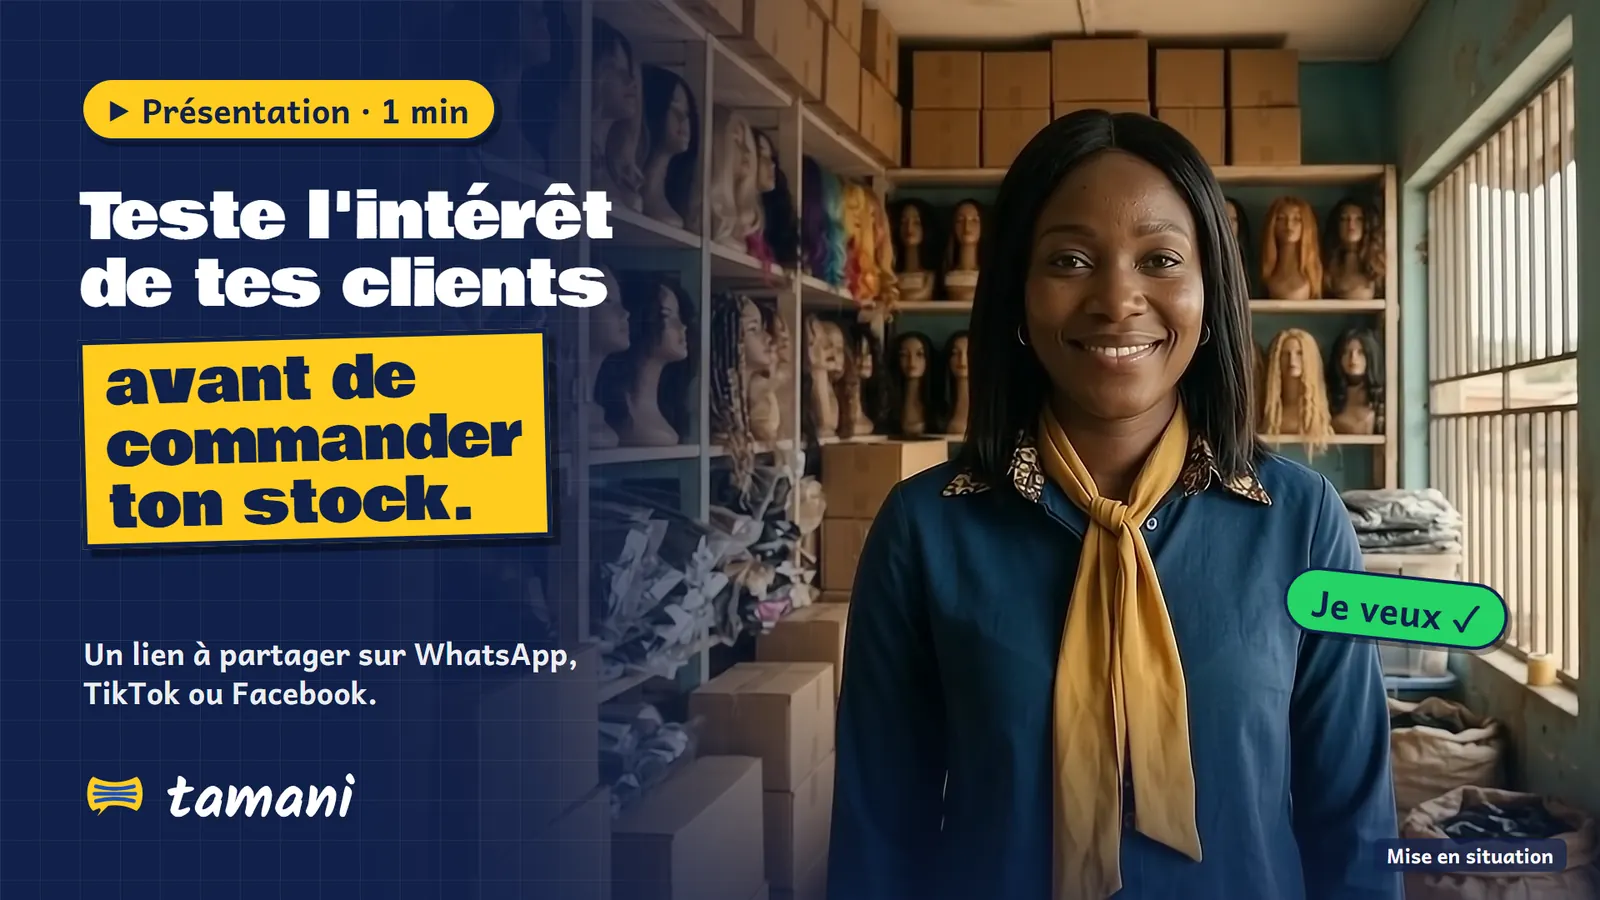
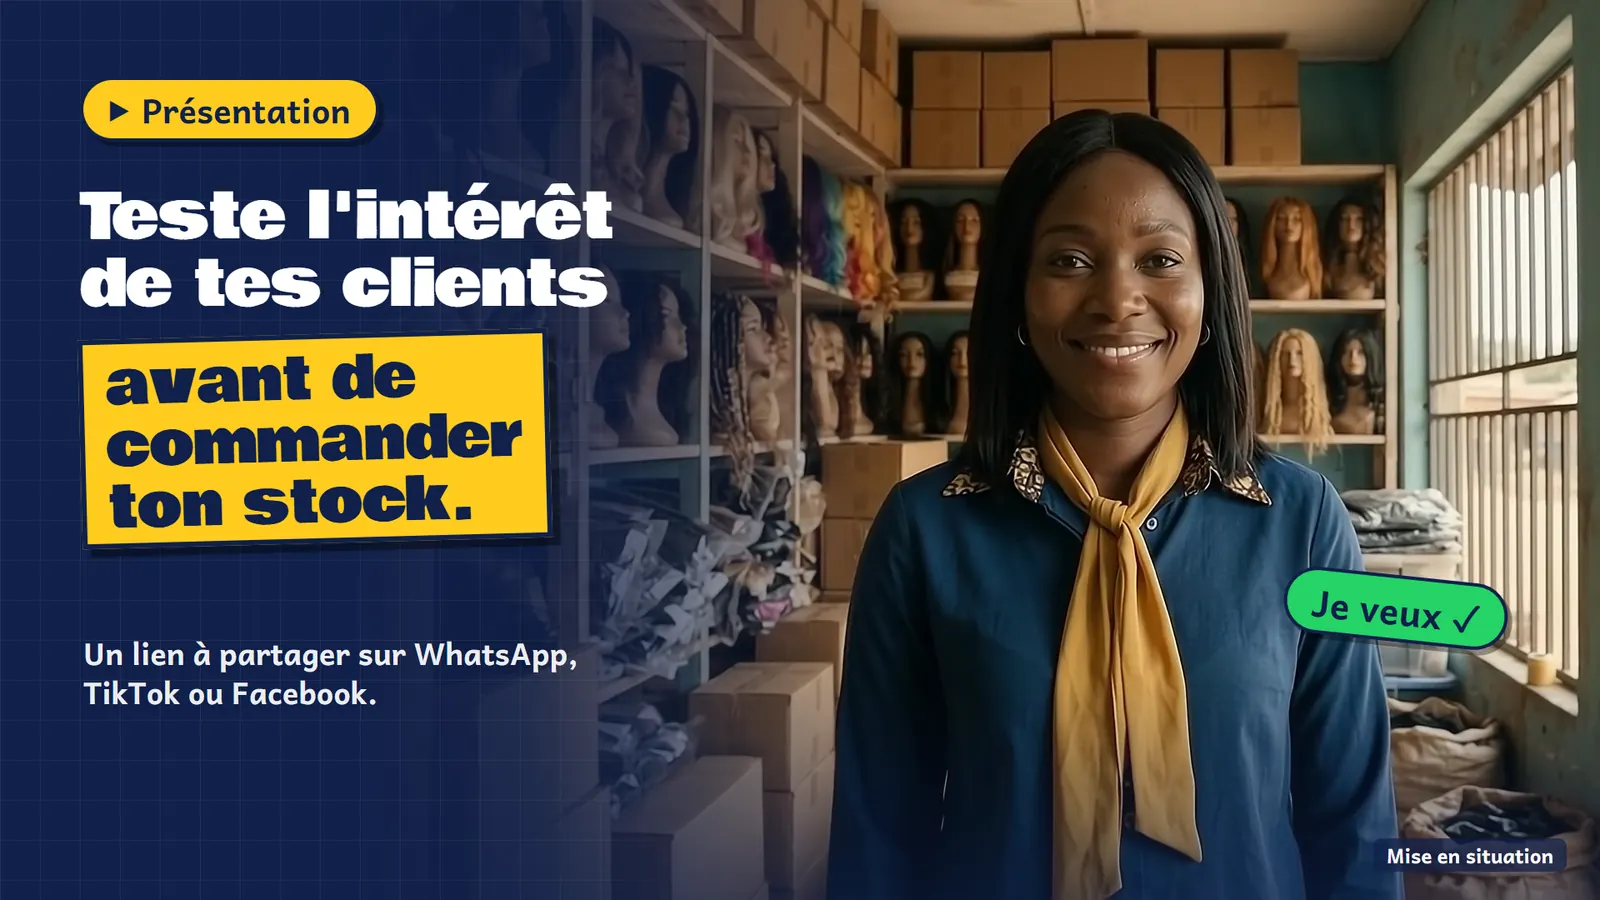
fix(landing): the menu bar fits the brief's entries; the poster leaves the player's corner free
Recette at 1120, 1280 and 1440 px:
- the six longer entries, « Se connecter » and the button need the bar's
  full 1180 px: the entries sit in the bar from 1280 px (drawer below), and
  the bar's button reads the short LANDING_NAV_CTA_LABEL on one line;
- the hero title lines are balanced, so « clients » is never alone;
- the site poster drops its logo and duration: the player writes « 1 min »
  in that corner, over the logo on a phone.

Changed region(s): [[0.2188, 0.0622, 0.3125, 0.1556], [0.0312, 0.84, 0.2188, 0.9333]]

diff --git a/frontend/src/components/landing/landing.test.tsx b/frontend/src/components/landing/landing.test.tsx
@@ -9,6 +9,8 @@ import {
   LANDING_LINKS,
   LANDING_NAV,
   LANDING_VIDEO,
+  LANDING_NAV_CTA_LABEL,
+  LANDING_SIGNUP_LABEL,
   filmLength,
   type LandingLinks,
 } from '@/lib/tamani/landing';
@@ -156,7 +158,12 @@ describe('LandingNav', () => {
     expect(out).toMatch(
       /<a [^>]*class="[^"]*lp-nav__cta[^"]*"[^>]*href="\/liste-attente"|<a [^>]*href="\/liste-attente"[^>]*class="[^"]*lp-nav__cta/,
     );
+    // The bar's button carries the short label on one line; the drawer's, the full one.
+    const barCta = out.match(/<a [^>]*class="[^"]*lp-nav__cta[^"]*"[^>]*>[\s\S]*?<\/a>/)?.[0] ?? '';
+    expect(barCta).toContain(`>${LANDING_NAV_CTA_LABEL.replace("'", '&#x27;')}<`);
+    expect(barCta).toContain('whitespace-nowrap');
     const drawer = out.slice(out.indexOf('id="lp-menu"'));
+    expect(drawer).toContain(LANDING_SIGNUP_LABEL.replace("'", '&#x27;'));
     const hrefs = [...drawer.matchAll(/href="([^"]+)"/g)].map((m) => m[1]);
     expect(hrefs).toEqual([
       ...LANDING_NAV.map((n) => n.href),
@@ -566,22 +573,23 @@ describe('motion that invites, never in the way', () => {
   });
 
   // Recette 2026-11-05: six entries centred in the bar ran into « Se connecter » at 1280 px.
+  // Recette 2026-11-06: the brief's longer entries and button need the full 1180 px bar.
   it('the bar shows its six entries only where they fit, never centred over the sign-in', () => {
     expect(css).not.toMatch(/\.lp-nav__links\s*\{[^}]*left:\s*50%/);
     expect(css).toMatch(
-      /@media \(min-width: 1120px\)\s*\{\s*\.lp-nav__links\s*\{\s*display:\s*flex[\s\S]*?\.lp-nav__menu\s*\{\s*display:\s*none/,
+      /@media \(min-width: 1280px\)\s*\{\s*\.lp-nav__links\s*\{\s*display:\s*flex[\s\S]*?\.lp-nav__menu\s*\{\s*display:\s*none/,
     );
   });
 
-  it('the drawer exists wherever the menu button shows (below 1120 px)', () => {
+  it('the drawer exists wherever the menu button shows (below 1280 px)', () => {
     // Hidden from 1000 px while the button stayed until 1119 px, a tap showed
     // nothing and locked the page's scroll.
     expect(css).not.toMatch(
       /@media \(min-width: 1000px\)\s*\{\s*\.lp-drawer\s*\{\s*display:\s*none/,
     );
-    expect(css).toMatch(/@media \(min-width: 1120px\)\s*\{\s*\.lp-drawer\s*\{\s*display:\s*none/);
+    expect(css).toMatch(/@media \(min-width: 1280px\)\s*\{\s*\.lp-drawer\s*\{\s*display:\s*none/);
     const nav = readFileSync(path.join(__dirname, 'LandingNav.tsx'), 'utf8');
-    expect(nav).toContain("matchMedia('(min-width: 1120px)')");
+    expect(nav).toContain("matchMedia('(min-width: 1280px)')");
     expect(nav).not.toContain("matchMedia('(min-width: 1000px)')");
   });
 

diff --git a/frontend/src/components/landing/LandingNav.tsx b/frontend/src/components/landing/LandingNav.tsx
@@ -10,6 +10,7 @@ import {
   LANDING_NAV,
   navStep,
   type LandingLinks,
+  LANDING_NAV_CTA_LABEL,
   LANDING_SIGNUP_HREF,
   LANDING_SIGNUP_LABEL,
 } from '@/lib/tamani/landing';
@@ -151,7 +152,7 @@ export function LandingNav({
   }, []);
 
   // While the drawer is open: focus inside it, Tab kept in it, Escape closes,
-  // the page under it does not scroll, and a window grown past 1120px (where
+  // the page under it does not scroll, and a window grown past 1280px (where
   // the bar shows every link) closes it.
   useEffect(() => {
     if (!open) return;
@@ -178,7 +179,7 @@ export function LandingNav({
         first.focus();
       }
     };
-    const wide = window.matchMedia('(min-width: 1120px)');
+    const wide = window.matchMedia('(min-width: 1280px)');
     const onWide = () => {
       if (wide.matches) setOpen(false);
     };
@@ -222,9 +223,9 @@ export function LandingNav({
             </Link>
             <Button
               href={LANDING_SIGNUP_HREF}
-              className="lp-nav__cta min-h-11 rounded-[12px] bg-ink px-[18px] text-[15px]"
+              className="lp-nav__cta min-h-11 rounded-[12px] bg-ink px-[18px] text-[15px] whitespace-nowrap"
             >
-              {LANDING_SIGNUP_LABEL}
+              {LANDING_NAV_CTA_LABEL}
             </Button>
             <button
               ref={menuRef}

diff --git a/frontend/src/lib/tamani/landing.ts b/frontend/src/lib/tamani/landing.ts
@@ -64,6 +64,7 @@ const LAUNCH: Record<
   {
     href: string;
     label: string;
+    navLabel: string;
     finalLabel: string;
     finalNote: string;
     planLabel: string;
@@ -73,6 +74,7 @@ const LAUNCH: Record<
   waitlist: {
     href: WAITLIST_PATH,
     label: "Rejoindre la liste d'attente",
+    navLabel: "Liste d'attente",
     finalLabel: "Rejoindre gratuitement la liste d'attente",
     finalNote: "Sans engagement. Nous te prévenons à l'ouverture.",
     planLabel: "Être prévenu à l'ouverture",
@@ -81,6 +83,7 @@ const LAUNCH: Record<
   open: {
     href: '/signup',
     label: 'Créer mon compte gratuit',
+    navLabel: 'Créer mon compte',
     finalLabel: 'Créer mon compte gratuit',
     finalNote: 'Sans carte bancaire.',
     planLabel: 'Choisir ce pass',
@@ -92,6 +95,8 @@ const launch = LAUNCH[LANDING_LAUNCH_MODE];
 /** Where every sign-up button of the public site leads, and what it says. */
 export const LANDING_SIGNUP_HREF: string = launch.href;
 export const LANDING_SIGNUP_LABEL: string = launch.label;
+/** The menu bar's button: short, on one line, beside the six entries and « Se connecter ». */
+export const LANDING_NAV_CTA_LABEL: string = launch.navLabel;
 /** The last call's button, a little longer. */
 export const LANDING_FINAL_LABEL: string = launch.finalLabel;
 /** The line under it. */

diff --git a/frontend/src/components/landing/landing.css b/frontend/src/components/landing/landing.css
@@ -347,10 +347,11 @@ html:has(.lp) {
     display: inline-flex;
   }
 }
-/* The six entries of the menu (lot 12) fit in the bar from 1120 px, pushed
+/* The six entries of the menu (lot 12) fit in the bar from 1280 px (the bar's
+   full 1180 px, since the copy brief's longer entries, 2026-11-06), pushed
    right next to the sign-in; below, they stay in the drawer. Centring them
    (lot 9a, four entries) made them run into « Se connecter ». */
-@media (min-width: 1120px) {
+@media (min-width: 1280px) {
   .lp-nav__links {
     display: flex;
     gap: 0;
@@ -581,8 +582,8 @@ button.lp-drawer__install {
   text-decoration-thickness: 2px;
   text-underline-offset: 3px;
 }
-/* The drawer lives as long as its menu button does (below 1120 px). */
-@media (min-width: 1120px) {
+/* The drawer lives as long as its menu button does (below 1280 px). */
+@media (min-width: 1280px) {
   .lp-drawer {
     display: none;
   }
@@ -622,6 +623,8 @@ button.lp-drawer__install {
 }
 .lp-hero__title > span {
   display: block;
+  /* « Teste l'intérêt / de tes clients »: never one word alone on a line. */
+  text-wrap: balance;
 }
 .lp-hero__l2 {
   position: relative;

diff --git a/frontend/src/lib/tamani/landing.test.ts b/frontend/src/lib/tamani/landing.test.ts
@@ -10,6 +10,7 @@ import {
   LANDING_REASSURANCE,
   LANDING_SIGNUP_HREF,
   LANDING_SIGNUP_LABEL,
+  LANDING_NAV_CTA_LABEL,
   LANDING_TITLE,
   clampPercent,
   countFrame,
@@ -302,6 +303,7 @@ describe('the launch mode (copy brief §2.3, §4.2)', () => {
     expect(LANDING_LAUNCH_MODE).toBe('waitlist');
     expect(LANDING_SIGNUP_HREF).toBe('/liste-attente');
     expect(LANDING_SIGNUP_LABEL).toBe("Rejoindre la liste d'attente");
+    expect(LANDING_NAV_CTA_LABEL).toBe("Liste d'attente");
     expect(LANDING_FINAL_LABEL).toBe("Rejoindre gratuitement la liste d'attente");
     expect(LANDING_PLAN_LABEL).toBe("Être prévenu à l'ouverture");
     expect(LANDING_REASSURANCE).toBe(

diff --git a/frontend/src/app/(public)/page.test.tsx b/frontend/src/app/(public)/page.test.tsx
@@ -62,7 +62,7 @@ describe('/ (the home page)', () => {
     expect(ctas.length).toBeGreaterThanOrEqual(6);
     for (const a of ctas)
       expect(text(<div dangerouslySetInnerHTML={{ __html: a }} />)).toMatch(
-        /Rejoindre (gratuitement )?la liste d'attente/,
+        /Rejoindre (gratuitement )?la liste d'attente|^Liste d'attente$/,
       );
     expect(text(<HomePage />)).not.toContain('Essayer gratuitement');
   });

diff --git a/docs/claude/tamani-lot-12-site-public.md b/docs/claude/tamani-lot-12-site-public.md
@@ -17,7 +17,7 @@ The porteur's rewrite of the public site on 2026-11-05 ([spec](../superpowers/sp
   10. `LandingFooter` (`#contact`).
 
   No price grid on the home page: `Pricing` and `OfferRail` are gone, and `page.test.tsx` checks `id="tarifs"` never comes back.
-- **Menu** — `LANDING_NAV` in [landing.ts](../../frontend/src/lib/tamani/landing.ts). Its links are `/#…` (not `#…`) so they work from `/forfaits` too. `LandingNav current="/forfaits"` marks the page with `aria-current="page"`; on `/` an IntersectionObserver sets `data-active` on the section in view. The six links sit in the bar from 1120 px only, after the logo (never centred absolutely: « Contact » covered « Se connecter » at 1280 px). Below 1120 px they live in the drawer. `StickyCta` hides over `#communaute`, `#final` and `#contact`.
+- **Menu** — `LANDING_NAV` in [landing.ts](../../frontend/src/lib/tamani/landing.ts). Its links are `/#…` (not `#…`) so they work from `/forfaits` too. `LandingNav current="/forfaits"` marks the page with `aria-current="page"`; on `/` an IntersectionObserver sets `data-active` on the section in view. The six links sit in the bar from 1280 px only (1120 px before the copy brief's longer entries; the bar's button then reads the short `LANDING_NAV_CTA_LABEL`, « Liste d'attente »), after the logo (never centred absolutely: « Contact » covered « Se connecter » at 1280 px). Below 1280 px they live in the drawer. `StickyCta` hides over `#communaute`, `#final` and `#contact`.
 - **`/forfaits`** — [app/(public)/forfaits/page.tsx](../../frontend/src/app/(public)/forfaits/page.tsx), static, with its own title, canonical and FAQPage JSON-LD (`forfaitsMetadata`, `forfaitsJsonLd`). Content and rules live in [landing-forfaits.ts](../../frontend/src/lib/tamani/landing-forfaits.ts):
   - `FORFAITS_TABS` (`court`: trial, Semaine, 2 semaines, Illimité; `mois`: Mois, Mois Plus, Mois Max, Illimité);
   - `forfaitOffers`, `cardLines`;
